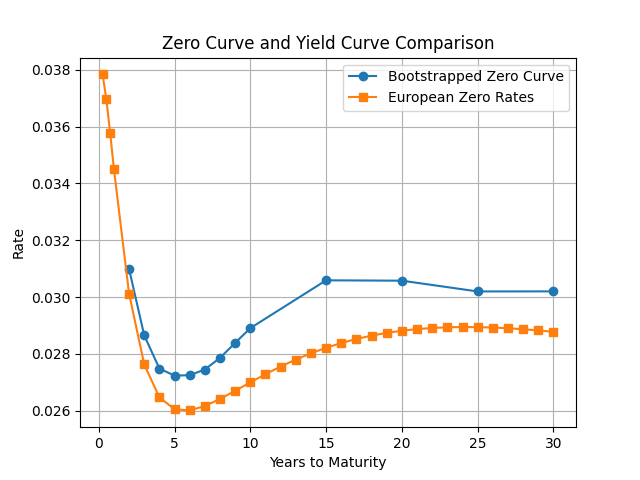
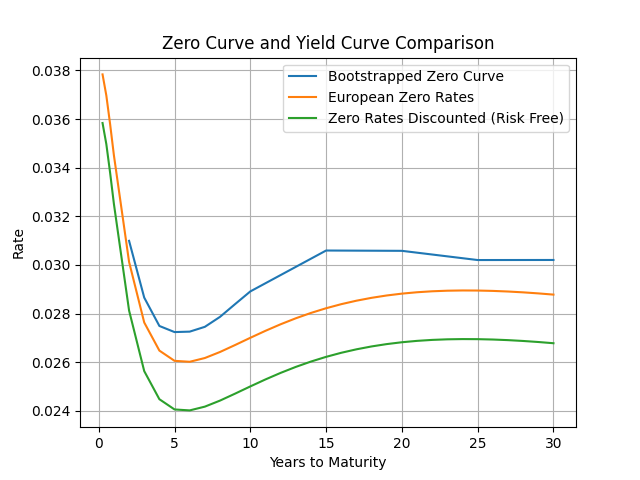
commit

diff --git a/assignment 1/sources/plotter.py b/assignment 1/sources/plotter.py
@@ -15,8 +15,10 @@ class Plotter:
 
         # Plot a line for each maturity
         for maturity in maturities:
-            rates = [Scenarios['scenario2'][maturity][f'{bump*10000}bp'] for bump in bumps]
-            plt.plot(bumps * 10000, rates, marker='o', label=f'Maturity {maturity} years')
+            rates = [Scenarios['scenario2'][maturity]
+                     [f'{bump*10000}bp'] for bump in bumps]
+            plt.plot(bumps * 10000, rates, marker='o',
+                     label=f'Maturity {maturity} years')
 
         plt.title('Swap Rates Sensitivity to Zero Curve Bumps')
         plt.xlabel('Bump in Basis Points')
@@ -92,12 +94,15 @@ class Plotter:
         self.save_fig('part1_3_bumpedswap')
         plt.show()
 
+    def plot_zerorates(self, zero_curve, european_zerorates, zero_rates_rf):
 
-    def plot_zerorates(self, zero_curve, european_zerorates):
-        
-        plt.plot(zero_curve.index, zero_curve['Zero Rates'], marker='o', label='Bootstrapped Zero Curve')
+        plt.plot(zero_curve.index,
+                 zero_curve['Zero Rates'], label='Bootstrapped Zero Curve')
         # plt.plot(bond_maturities, yields, marker='x', linestyle='--', label='Yield Curve')
-        plt.plot(european_zerorates.index, european_zerorates, marker='s', linestyle='-', label='European Zero Rates')
+        plt.plot(european_zerorates.index, european_zerorates,
+                 linestyle='-', label='European Zero Rates')
+        plt.plot(zero_rates_rf.index, zero_rates_rf, linestyle='-',
+                 label='Zero Rates Discounted (Risk Free)')
 
         plt.title('Zero Curve and Yield Curve Comparison')
         plt.xlabel('Years to Maturity')
